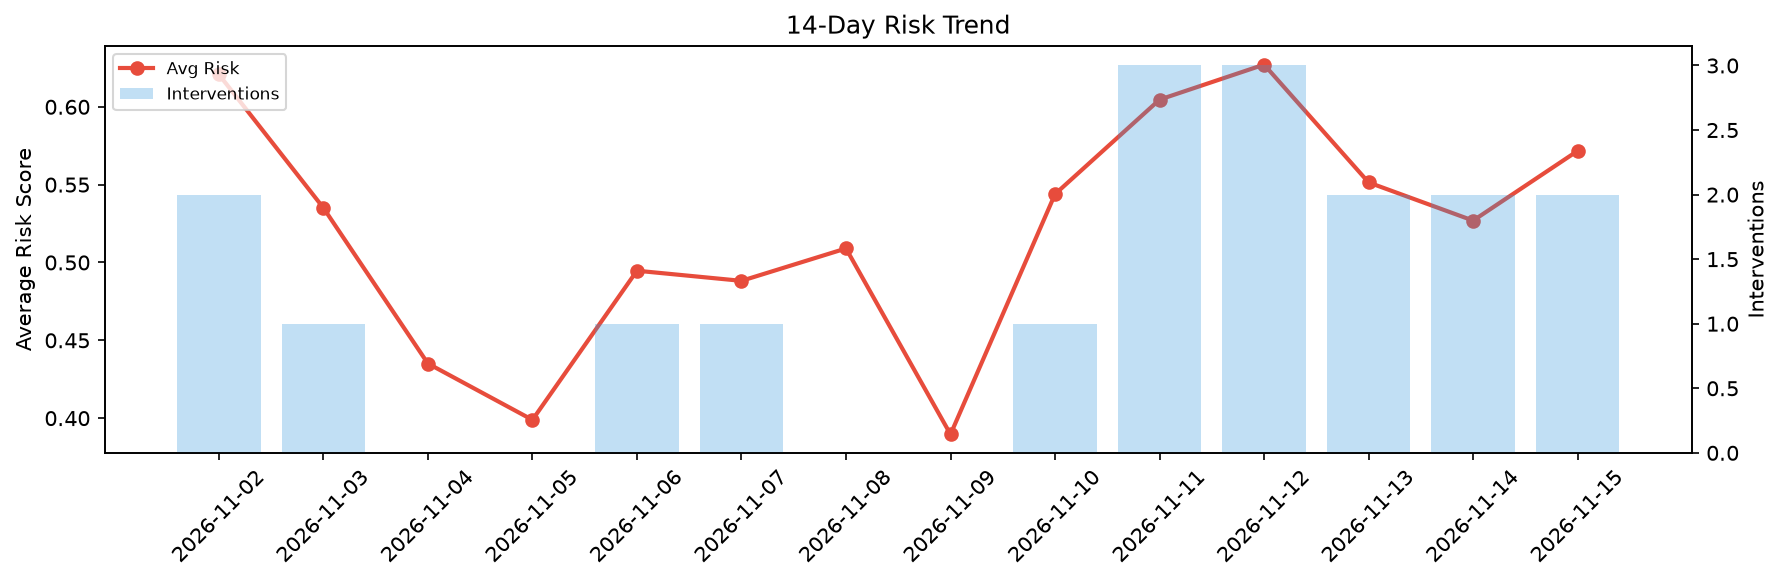
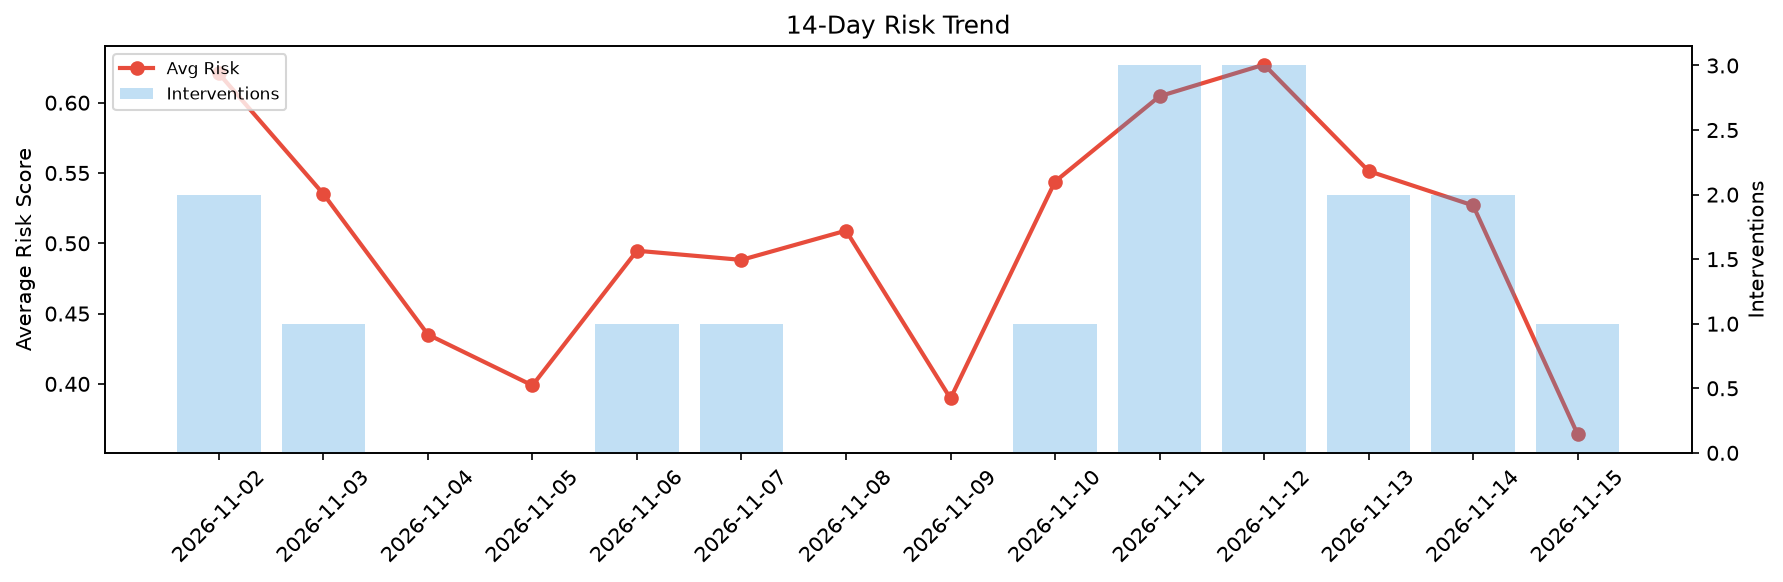
agent-improvement: daily cycle 2026-11-15T15:39

diff --git a/logs/2026-11-15.md b/logs/2026-11-15.md
@@ -1,6 +1,6 @@
 # Agent Improvement Report — 2026-11-15
 
-**Cycle ID:** `38b442b3` | **Avg Risk:** 0.5717 | **Interventions:** 2/4
+**Cycle ID:** `1e277704` | **Avg Risk:** 0.3641 | **Interventions:** 1/4
 
 ![Dashboard](2026-11-15_dashboard.png)
 
@@ -10,18 +10,18 @@
 
 | Domain | Risk Score | Decision | Alerts |
 |--------|-----------|----------|--------|
-| code_review | 0.4858 | monitor | none |
-| incident_response | 0.6694 | intervene | blast_radius |
-| data_pipeline | 0.4329 | monitor | none |
-| deployment | 0.6987 | intervene | latency_p99 |
+| code_review | 0.6196 | intervene | duplication, coverage |
+| incident_response | 0.3888 | monitor | none |
+| data_pipeline | 0.1111 | monitor | none |
+| deployment | 0.3371 | monitor | canary_error |
 
 ## Delta vs Yesterday
 
 | Domain | Today | Yesterday | Change |
 |--------|-------|-----------|--------|
-| code_review | 0.4858 | 0.4704 | 📈 3.3% |
-| incident_response | 0.6694 | 0.3289 | 📈 103.5% |
-| data_pipeline | 0.4329 | 0.6683 | 📉 -35.2% |
-| deployment | 0.6987 | 0.6398 | 📈 9.2% |
+| code_review | 0.6196 | 0.4704 | 📈 31.7% |
+| incident_response | 0.3888 | 0.3289 | 📈 18.2% |
+| data_pipeline | 0.1111 | 0.6683 | 📉 -83.4% |
+| deployment | 0.3371 | 0.6398 | 📉 -47.3% |
 
-**Refinement:** `{'adjustment': 'tighten_thresholds', 'trend': 'degrading', 'window': 4}`
+**Refinement:** `{'adjustment': 'maintain', 'trend': 'improving', 'window': 4}`
